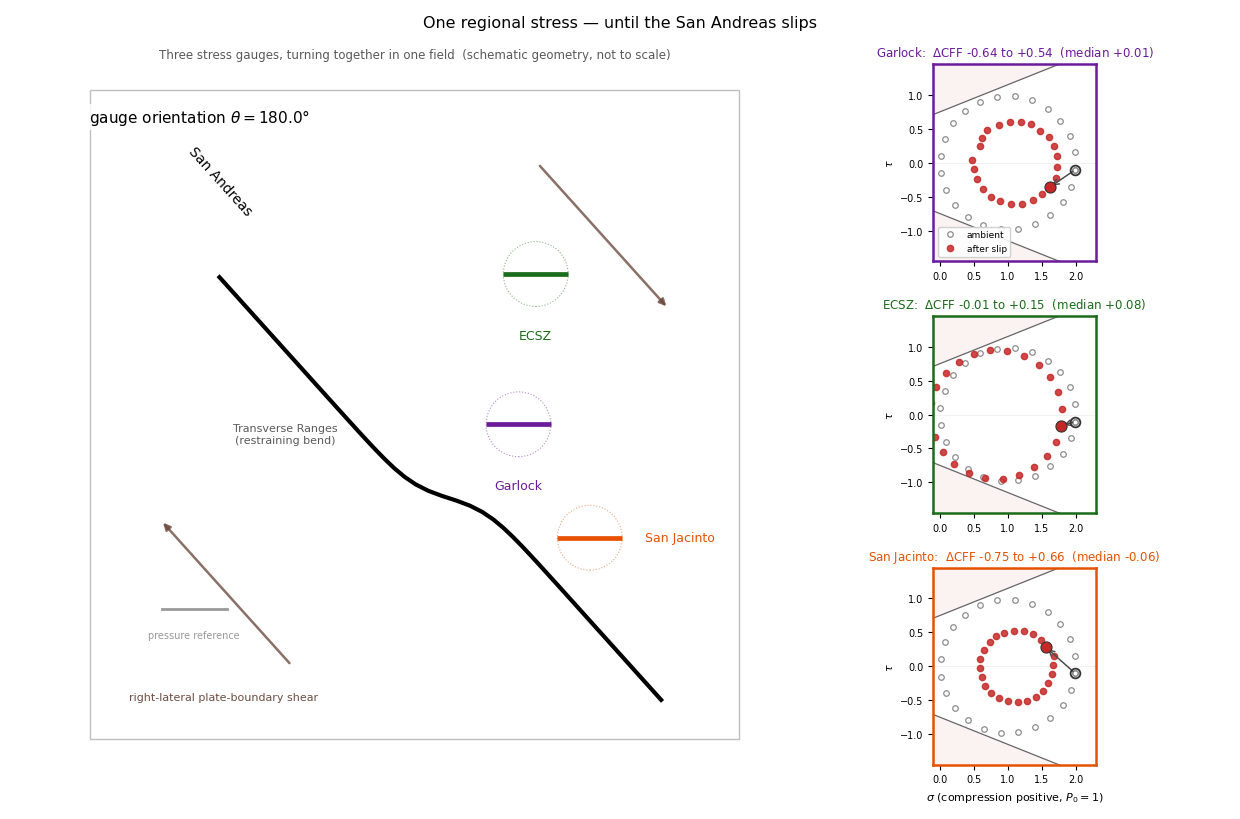
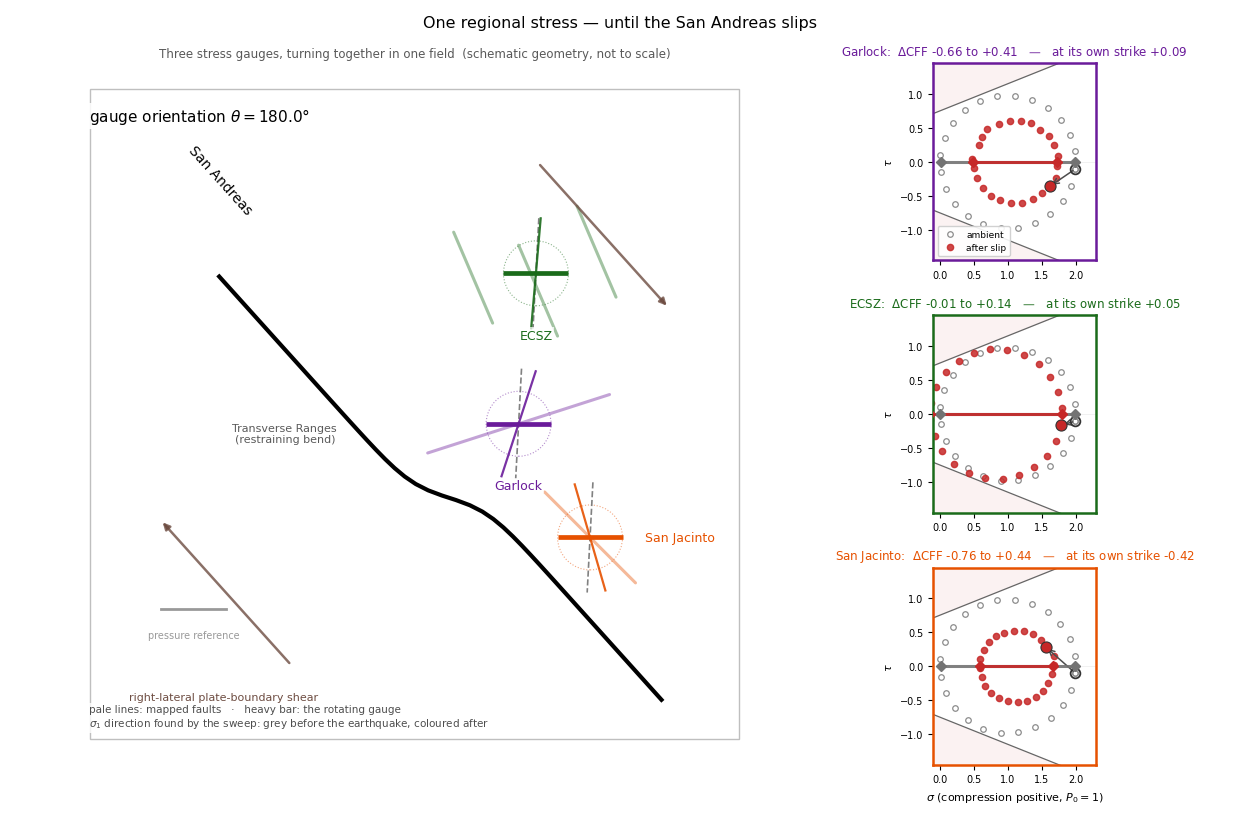
Principal axes one at a time, a stacked twin GIF, and the reverse experiment
- The two principal directions now appear ONE AT A TIME in the probe
  animation, each when the sweep reaches it, so the orthogonality is
  something the student watches happen rather than is told.
- 3.1's comparison slide now uses a single stacked GIF of both fields
  rather than two files: separate GIFs start whenever each finishes
  loading in the browser, and the two sweeps drift out of step.
- The clocks figure now draws the mapped fault traces under each gauge,
  keeps the sigma_1 direction the sweep finds (grey before the
  earthquake, coloured after), and joins each circle's principal pair
  with a persistent bar. Measured sigma_1 rotation: Garlock -15 degrees,
  ECSZ -2, San Jacinto +19.
- Corrected the clocks' dCFF: the slip-tendency sign has to be taken per
  orientation, not once per site. At each fault's own mapped strike the
  corrected numbers now reproduce the published california figure
  (San Jacinto -0.43 against -0.41), so the two figures agree.
- New slide "Now run it backwards": let a neighbour slip and read the
  San Andreas. San Jacinto relaxes it, the Garlock loads it, and both
  concentrate on the restraining bend.

Claude-Session: https://claude.ai/code/session_01QKZ5ANuqmbxsanNfPFk9J2

diff --git a/Lectures/Module-iii-lecture1-Theory-draft.reveal.md b/Lectures/Module-iii-lecture1-Theory-draft.reveal.md
@@ -862,9 +862,11 @@ Underworld3 split-node fault computation (Moresi). Fitted radius 1.411 vs the an
 
 ## A different field, a different circle
 
-![MohrBuildB](images/UW-FaultExamples/mohr-circle-build-B.gif) <!-- .element style="display:block; margin-left:auto; margin-right:auto; width:66%" -->
+![MohrBuildAB](images/UW-FaultExamples/mohr-circle-build-AB.gif) <!-- .element style="display:block; margin-left:auto; margin-right:auto; width:47%" -->
 
-The identical experiment in a *different* stress state: pure shear, with the compression axis at $60°$. The probe again finds the principal directions at exactly $60°$ and $150°$ — but the circle it builds is smaller, and turned.
+The identical experiment run in two *different* stress states, sweeping together. Below is pure shear with the compression axis at $60°$: the probe finds the principal directions at exactly $60°$ and $150°$, but the circle it builds is smaller, and turned.
+
+Same probe, same construction, same $2\theta$ rule. Different circle.
 
 <--v-->
 
@@ -995,6 +997,25 @@ The measured swing in $\Delta$CFF across orientations, at each site:
 At Garlock and San Jacinto the *same* earthquake either loads you or relaxes you — a swing of more than $1.2$ — depending on nothing but the orientation of your fault. The median is close to zero at both, and tells you almost nothing.
 
 This is why aftershock forecasting needs the **receiver geometry**, not just the source: "was this fault brought closer to failure?" has no answer until you say which fault.
+
+<--v-->
+
+## Now run it backwards
+
+![SAFLoaded](images/UW-FaultExamples/saf-loaded.png) <!-- .element style="display:block; margin-left:auto; margin-right:auto; width:82%" -->
+
+Let a *neighbour* slip instead, and read the San Andreas. Both events reach it, and they do **opposite** things:
+
+- the **San Jacinto** slips right-laterally and **relaxes** the master fault, most strongly just southeast of the bend ($-0.30$);
+- the **Garlock** — which resolves *left*-laterally from the kinematics alone, the sense the real Garlock has — **loads** it, and does so right at the bend ($+0.40$).
+
+Both effects are concentrated on the **restraining bend**. Geometry decides not only where the mountains go, but where the fault is most sensitive to its neighbours.
+
+<small>
+
+Underworld3 (Moresi). The San Andreas is welded in every state, so it acts as a stress probe along its whole length — three solves, no sweep needed. Shear resolved on the *local* tangent at each node, since the trace is curved; the far end of the trace anchors each solve's pressure constant.
+
+</small>
 
 <small>
 

diff --git a/Jupyterbook/Glossary.md b/Jupyterbook/Glossary.md
@@ -916,7 +916,7 @@ Releasing bend
 Restraining bend
 : A bend or stepover along a strike-slip fault where the geometry forces the two sides together, creating local contraction — folds, reverse faults, positive flower structures, uplifted pop-up blocks, and if the bend is big enough, a mountain range.
 
-  *Slides: [2.4 Strike-Slip, Transtension & Transpression — Fault Bends and Stepovers](/slideshows/Module-ii-Lecture-4-Strike-Slip-Transtention-Transpression.reveal.html#/31)*
+  *Slides: [2.4 Strike-Slip, Transtension & Transpression — Fault Bends and Stepovers](/slideshows/Module-ii-Lecture-4-Strike-Slip-Transtention-Transpression.reveal.html#/31) · [3.1 Stress — Now run it backwards](/slideshows/Module-iii-lecture1-Theory-draft.reveal.html#/31/5)*
 
 Reverse fault
 : A dip-slip fault steeper than about 30° on which the hanging wall moves up relative to the footwall, accommodating horizontal shortening. Think of it as the steep sibling of a thrust: the 30° cut-off is a convention, not a change of mechanism.
